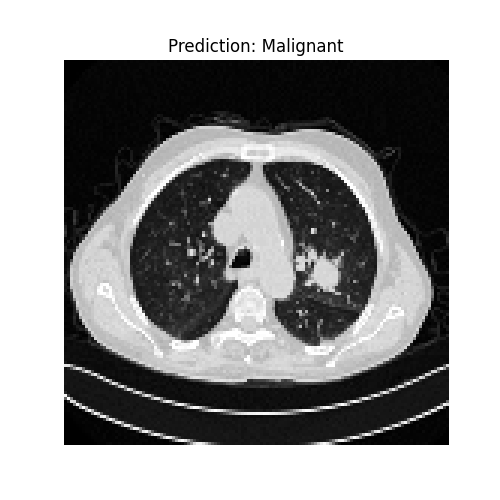
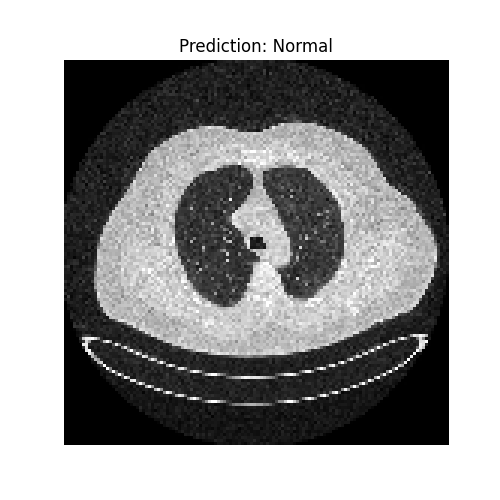
Update Lung Cancer project portfolio page

diff --git a/index.html b/index.html
@@ -191,6 +191,7 @@
       </div>
     </section>
 
+<<<<<<< HEAD
      <article class="visual-card">
           <img src="images/prediction_benign.png" alt="Bengin CT prediction example">
           <h3>Benign Prediction Example</h3>
@@ -199,6 +200,8 @@
       </div>
     </section>
 
+=======
+>>>>>>> 330c2f8 (Update Lung Cancer project portfolio page)
     <section id="insights" class="section-shell insight-section">
       <div class="section-heading">
         <p class="eyebrow">Key Takeaways</p>